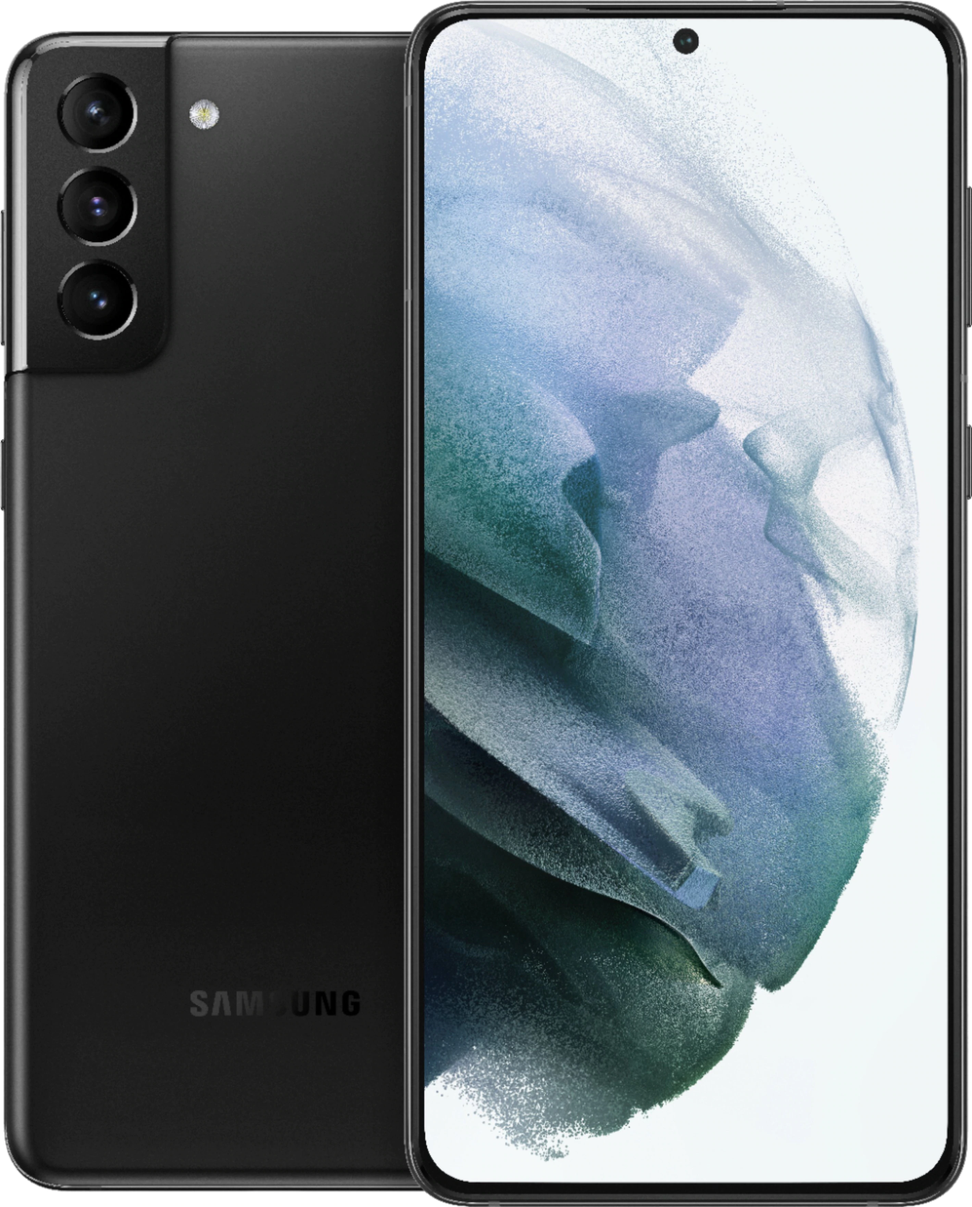
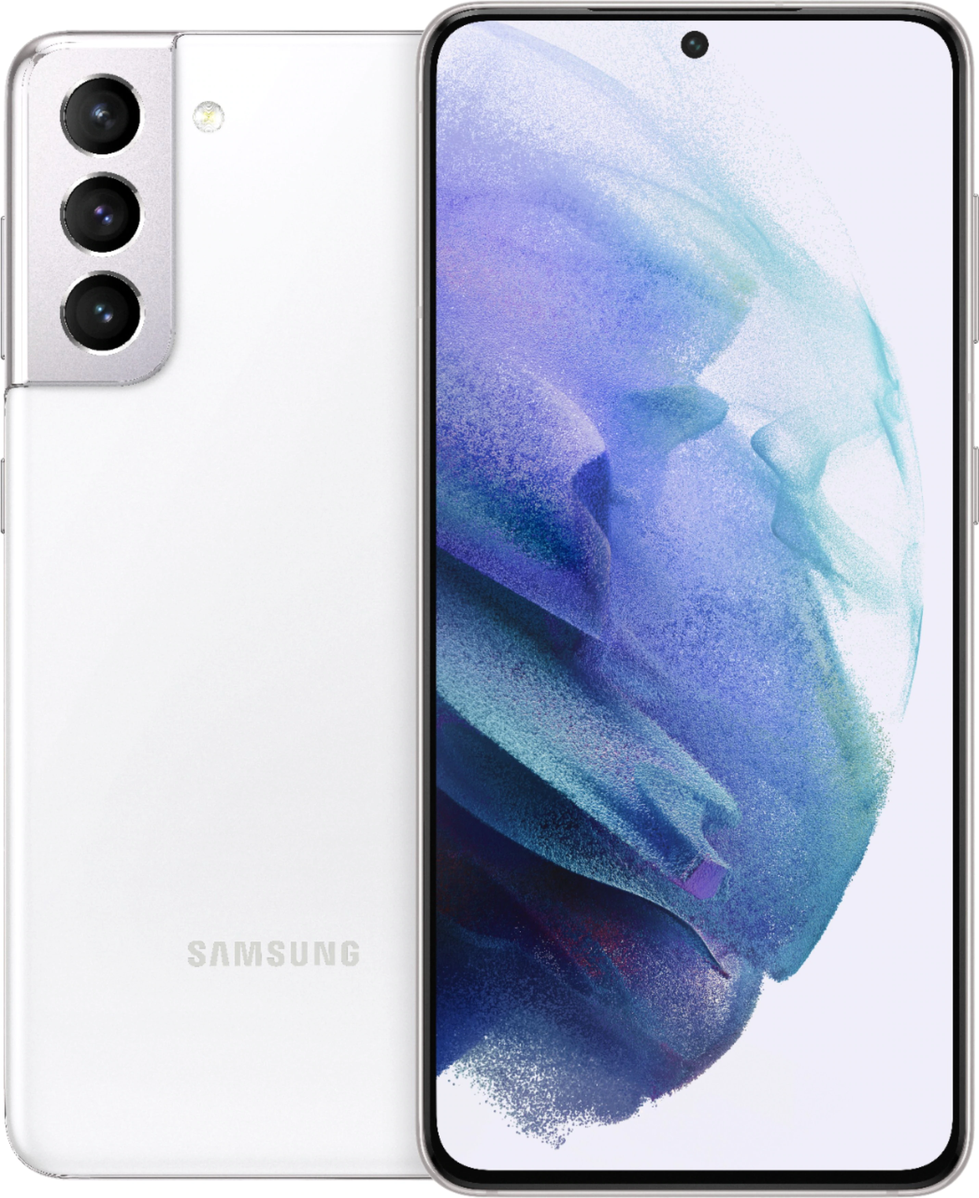
added products and started with reducer

diff --git a/src/components/Home/Home.js b/src/components/Home/Home.js
@@ -8,16 +8,16 @@ function Home() {
             <div className='home-container'>
                 <img className='background-img' src={require('../../assets/img/Prime.jpg').default} alt='amazon prime background'/>
                 <div className='home-row'>
-                    <Product id='58762' title='Samsung Galaxy S21+ 5G 128GB in Phantom Black (Unlocked)' price={799.99} image='galaxy.jpg' rating={5}/>
-                    <Product id='12548' title='Samsung Galaxy S21+ 5G 128GB in Phantom Black (Unlocked)' price={799.99} image='galaxy.jpg' rating={5}/>
+                    <Product id='58762' title='Samsung Galaxy S21 5G 128GB in White (Unlocked)' price={799.99} image='galaxy.jpg' rating={5}/>
+                    <Product id='12548' title='Samsung Galaxy Buds Live, Mystic Black' price={169.99} image='galaxy-buds.jpg' rating={4}/>
                 </div>
                 <div className='home-row'>
-                    <Product id='96542' title='Samsung Galaxy S21+ 5G 128GB in Phantom Black (Unlocked)' price={799.99} image='galaxy.jpg' rating={5}/>
-                    <Product id='35782' title='Samsung Galaxy S21+ 5G 128GB in Phantom Black (Unlocked)' price={799.99} image='galaxy.jpg' rating={5}/>
-                    <Product id='65992' title='Samsung Galaxy S21+ 5G 128GB in Phantom Black (Unlocked)' price={799.99} image='galaxy.jpg' rating={5}/>
+                    <Product id='96542' title='Samsung 55" TU7000 Crystal UHD 4K Smart TV (2020)' price={499.99} image='TV.jpg' rating={4}/>
+                    <Product id='35782' title='Samsung Galaxy Watch4, 40mm in Black, Bluetooth Smartwatch' price={249.99} image='watch.jpg' rating={3}/>
+                    <Product id='65992' title='Samsung Galaxy Book Pro 360' price={1199.99} image='galaxy-book.jpg' rating={5}/>
                 </div>
                 <div className='home-row'>
-                    <Product id='12545' title='Samsung Galaxy S21+ 5G 128GB in Phantom Black (Unlocked)' price={799.99} image='galaxy.jpg' rating={5}/>
+                    <Product id='12545' title='Samsung 49" QLED Gaming Monitor' price={899.99} image='monitor.jpg' rating={3}/>
                 </div>
             </div>
         </div>

diff --git a/src/components/Product/Product.js b/src/components/Product/Product.js
@@ -1,7 +1,26 @@
 import React from 'react'
 import './Product.css'
+import { useStateValue } from '../../utils/StateProvider'
 
 function Product({ id, title, image, price, rating }) {
+
+    const [state, dispatch] = useStateValue()
+
+    // console.log(state.basket)
+
+    const addToBasket = () => {
+        dispatch({
+            type: 'ADD_TO_BASKET',
+            item: {
+                id: id,
+                title: title,
+                image: `../../assets/img/${image}`,
+                price: price,
+                rating: rating
+            }
+        })
+    }
+
     return (
         <div className='product'>
             <div className='product-info'>
@@ -17,7 +36,7 @@ function Product({ id, title, image, price, rating }) {
                 </div>
             </div>
             <img className='product-img'src={require(`../../assets/img/${image}`).default} alt=''/>
-            <button className='basket-btn'>Add to Basket</button>
+            <button onClick={addToBasket} className='basket-btn'>Add to Basket</button>
         </div>
     )
 }

diff --git a/src/index.js b/src/index.js
@@ -1,17 +1,21 @@
-import React from 'react';
-import ReactDOM from 'react-dom';
-import './index.css';
-import App from './App';
-import reportWebVitals from './reportWebVitals';
+import React from 'react'
+import ReactDOM from 'react-dom'
+import './index.css'
+import App from './App'
+import reportWebVitals from './reportWebVitals'
+import { StateProvider } from './utils/StateProvider'
+import  {reducer, initialState } from './utils/Reducer'
 
 ReactDOM.render(
   <React.StrictMode>
-    <App />
+    <StateProvider initialState={initialState} reducer={reducer}>
+      <App />
+    </StateProvider>
   </React.StrictMode>,
   document.getElementById('root')
-);
+)
 
 // If you want to start measuring performance in your app, pass a function
 // to log results (for example: reportWebVitals(console.log))
 // or send to an analytics endpoint. Learn more: https://bit.ly/CRA-vitals
-reportWebVitals();
+reportWebVitals()

diff --git a/src/utils/StateProvider.js b/src/utils/StateProvider.js
@@ -1,0 +1,14 @@
+import React, { createContext, useContext, useReducer } from "react"
+
+// Prepares the Data Layer
+export const StateContext = createContext()
+
+// Wrap our app and provide the Data Layer
+export const StateProvider = ({ reducer, initalState, children }) => (
+  <StateContext.Provider value={useReducer(reducer, initalState)}>
+    {children}
+  </StateContext.Provider>
+)
+
+// Pull information from the Data Layer
+export const useStateValue = () => useContext(StateContext)

diff --git a/src/utils/Reducer.js b/src/utils/Reducer.js
@@ -1,0 +1,18 @@
+export const initialState = {
+  basket: [],
+  // user: null
+};
+
+
+export const reducer = (state = initialState, action) => {
+  switch (action.type) {
+    case "ADD_TO_BASKET":
+      return {
+        ...state,
+        basket: [...state.basket, action.item],
+      };
+    default:
+      return state;
+  }
+};
+
